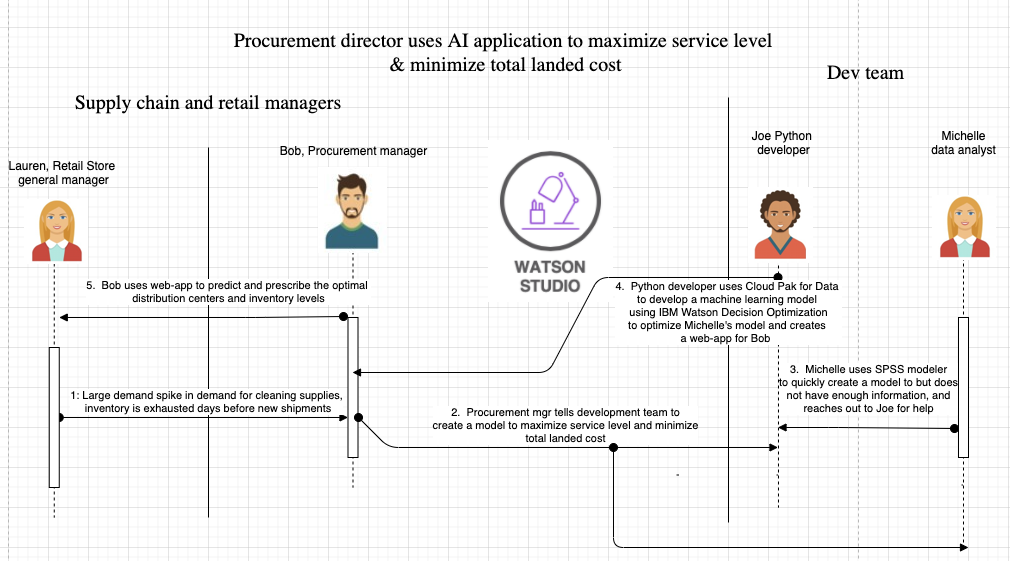
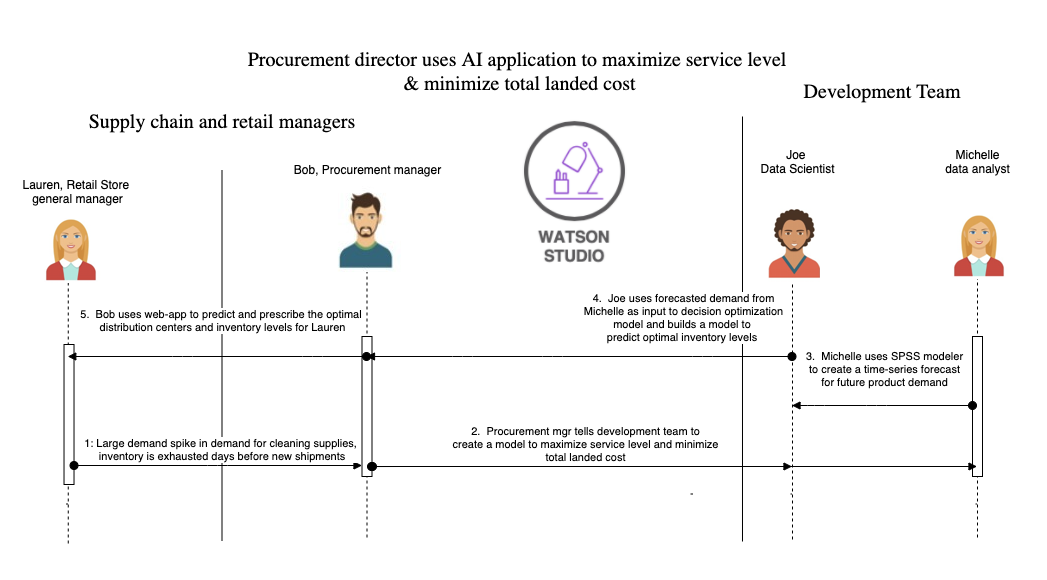
add flow diagram

diff --git a/README.md b/README.md
@@ -1,7 +1,7 @@
 # Develop an intelligent inventory and distribution strategy using AI 
 
 One of the most important parts of being a retail store today, going against the likes of Amazon, Etsy, and 
-the other multitudes of online stores is optimizing inventory. If you have too much inventory, you're 
+other online stores is optimizing inventory. If you have too much inventory, you're 
 losing money on the items that you have not sold. If you have too little, and customers expect you to have 
 a certain item, the customer will lose their trust and go elsewhere to purchase that same item. Finding the 
 perfect balance by predicting demand is ultimately an optimization problem, one fit for machine learning.
@@ -11,18 +11,18 @@ each with their own advantages, it would take days or even weeks for a manager t
 distribution route if they were to check each possible combination by hand. Again, this solution can 
 be solved with machine learning.
 
-Image that a large demand spikes in cleaning supplies, but our data shows that inventory has been exhausted 
-days before new shipments for multiple weeks in a row. Machines can learn from this. Using this new 
+Imagine that a large demand spike in cleaning supplies causes our inventory to be exhausted 
+days before new shipments arrive. Machines can learn from this. Using this 
 data to train our machine learning model, we can predict demand for certain items more accurately in the 
 future, and ensure that our customers will be able to purchase what they want. Lastly, as a procurement
 manager of multiple stores, we want to ensure that our supply chain is as efficient as possible, taking 
 the most direct route, so that inventory is filled quickly, in a cost-effective manner. 
 
 Using this scenario as our case study, we will take the view of the procurement manager. The procurement 
-manager is notified by Lauren, the retail store manager that inventory for certain cleaning supplies 
+manager is notified by Lauren, the retail store manager whose inventory for certain cleaning supplies 
 has been exhausted days ahead of schedule. Bob, the procurement manager, gives the task to the development 
-team to take the last month of inventory data as a way to train a new machine learning model, which is 
-able to predict demand in the future more accurately and find the optimal routes for the supply to reach
+team to take the inventory demand data, denoted as `Actuals` in the data set, as a way to train a machine learning model. The model will 
+predict demand in the future which will help optimize demand and find the optimal routes for the supply to reach
 the retail stores. In the next few paragraphs, we will explain how the development team will use machine 
 learning tools and techniques to solve this problem.
 
@@ -35,20 +35,16 @@ You can install IBM Cloud Pak for Data through a tile in the IBM Cloud catalog, 
 
 ## Predict future demand using SPSS Modeler 
 
-Michelle, the data analyst takes on this task 
-to build a machine learning model rapidly, using SPSS Modeler on IBM Cloud. After she uses 
-SPSS modeler, Michele notices that the accuracy of the model is not as high as it could be, so she 
-asks for some help from her developer friend, Joe, which is learning data science techniques. Joe is a 
-Python developer and he uses SkiKitLearn and other popular open-source libraries to test the model, and 
-uses pre-processing, dimensionality reduction, and chooses different algorithms to optimize the 
-accuracy of the model.
+Michelle, the data analyst takes on the task to build a machine learning model using SPSS Modeler on IBM Cloud. After she builds a model, she uses the model
+to predict future demand for specific products in the retail store. Michelle 
+visualizes the demand, and sends the output to Joe to use this predicted 
+demand as input to his decision optimization model.
 
 ## Create a machine learning model to optimize inventory based on demand
-Once Joe is his happy with the demand model, he will move on to optimizing inventory
-and distribution routes. It is very important that the demand model is as accurate as 
-possible, since that demand will be fed in as a constraint to optimize inventory.
-Bob realizes that there are software packages that can easily solve this 
-problem for him, including the CPLEX library developed by IBM. He uses CPLEX to identify the constraints, 
+Joe takes the predicted demand given by Michelle, and uses that as a 
+constraint into his decision optimization problem. First he uses the 
+model builder and NLU solution on IBM Public Cloud to build his model.
+Next, he uses CPLEX to identify the constraints, 
 namely the distribution centers, and the the max amount of inventory the store can carry, and he uses this 
 to build his solution.
 

diff --git a/tutorials/spss.md b/tutorials/spss.md
@@ -1,8 +1,8 @@
 # Use SPSS Modeler to predict demand for retail
 
 As mentioned in our previous article, our goal is to build an intelligent inventory and distribution strategy using AI. In this part of the 
-solution, we will work on predicting future demand of our products to help us determine our optimal inventory level using SPSS Modeler on Watson Studio on IBM Cloud. SPSS Modeler is a data mining and analytics software
-that is used to build predictive models. Using SPSS Modeler on IBM Cloud
+solution, we will work on predicting future demand of our products to help us determine our optimal inventory level using SPSS Modeler for Watson Studio on IBM Cloud. SPSS Modeler is a data mining and analytics software
+that is used to build predictive models. Using SPSS Modeler for Watson Studio
 enables data scientists and data analysts to work in a collaborative, cloud-based environment and quickly share their models and results with
 their stakeholders. 
 
